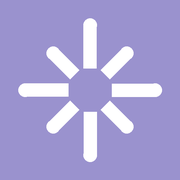
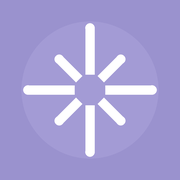
Add files via upload

Changed region(s): [[0.0833, 0.0833, 0.9167, 0.9167]]

diff --git a/index.html b/index.html
@@ -22,8 +22,17 @@
 <meta name="twitter:description" content="Prueba maquillaje coreano sobre tu propia selfie, gratis y sin que tu foto salga de tu dispositivo.">
 <meta name="twitter:image" content="https://makeup.aurak.app/og-makeup.jpg">
 <link rel="icon" href="/favicon-32.png" sizes="32x32">
+<link rel="icon" href="/icon-192.png" sizes="192x192">
 <link rel="icon" href="/icon-512.png" sizes="512x512">
-<link rel="apple-touch-icon" href="/apple-touch-icon.png">
+<!-- iOS ignora el manifest para el icono: usa apple-touch-icon, que debe ser
+     PNG opaco de 180x180 en la raíz del dominio (iOS le pone las esquinas). -->
+<link rel="apple-touch-icon" sizes="180x180" href="/apple-touch-icon.png">
+<link rel="manifest" href="/manifest.webmanifest">
+<meta name="apple-mobile-web-app-capable" content="yes">
+<meta name="mobile-web-app-capable" content="yes">
+<meta name="apple-mobile-web-app-title" content="Makeup Aura-K">
+<meta name="application-name" content="Makeup Aura-K">
+<meta name="apple-mobile-web-app-status-bar-style" content="default">
 <script type="application/ld+json">
 {"@context":"https://schema.org","@type":"WebApplication",
  "name":"Aura-K Makeup Studio","url":"https://makeup.aurak.app/",
